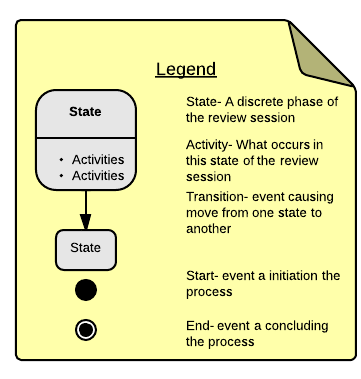
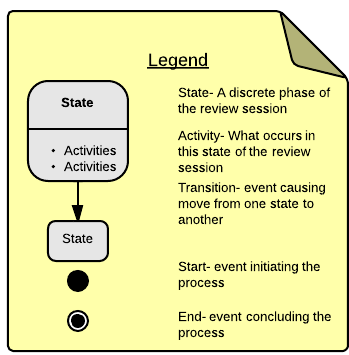
Feature 3417:Active review guide: added the legend modal to the guide (ARR for Dummies) screen

diff --git a/src/ARR.Web/Screens/Guide.html b/src/ARR.Web/Screens/Guide.html
@@ -41,10 +41,15 @@
             </ul>
             <div id="myTabContent" class="tab-content">
                 <div class="tab-pane active in" id="home">
+                    <!-- ***button to display the legend in a modal -->
+                    <a href="#legendModal" role="button" class="btn" data-toggle="modal">Show Legend</a>
                     <div style="margin-left:auto; margin-right:auto; margin-top: auto; width:80%;">
                         <br/>
                         <img src="../Content/images/guide/ARRSessionStateDiagram.png" width="700px" height="1000px" class="img-polaroid"  />
                         <br/>
+                        <!-- ***quick fix to add legend for this document --
+                        <img src="../Content/images/guide/ARRStateDiagramLegend.png" width="300px" height="500px" class="img-polaroid" />
+                        <br /> -->
                     </div>
                 </div>
                 <div class="tab-pane fade" id="roles">
@@ -174,7 +179,22 @@
             
         </fieldset>
     </section>
-    
+     
+    <!-- ***modal to display legend for state diagram legend -->
+    <div id="legendModal" class="modal hide fade" tabindex="-1" role="dialog" aria-labelledby="legendModalLabel" aria-hidden="true">
+        <div class="modal-header">
+            <button type="button" class="close" data-dismiss="modal" aria-hidden="true">x</button>
+            <h3 id="legendModalLabel">State diagram</h3>
+        </div>
+        <div class="modal-body">
+            <br/>
+                <img src="../Content/images/guide/ARRStateDiagramLegend.png" width="300px" height="500px" class="img-polaroid" />
+            <br />
+        </div>
+        <!-- <div class="modal-footer">
+            <button class="btn" data-dismiss="modal" aria-hidden="true">Close</button>
+        </div> -->
+    </div>
 
 
      <!-- Bootstrap jQuery Plugins, compiled and minified -->
